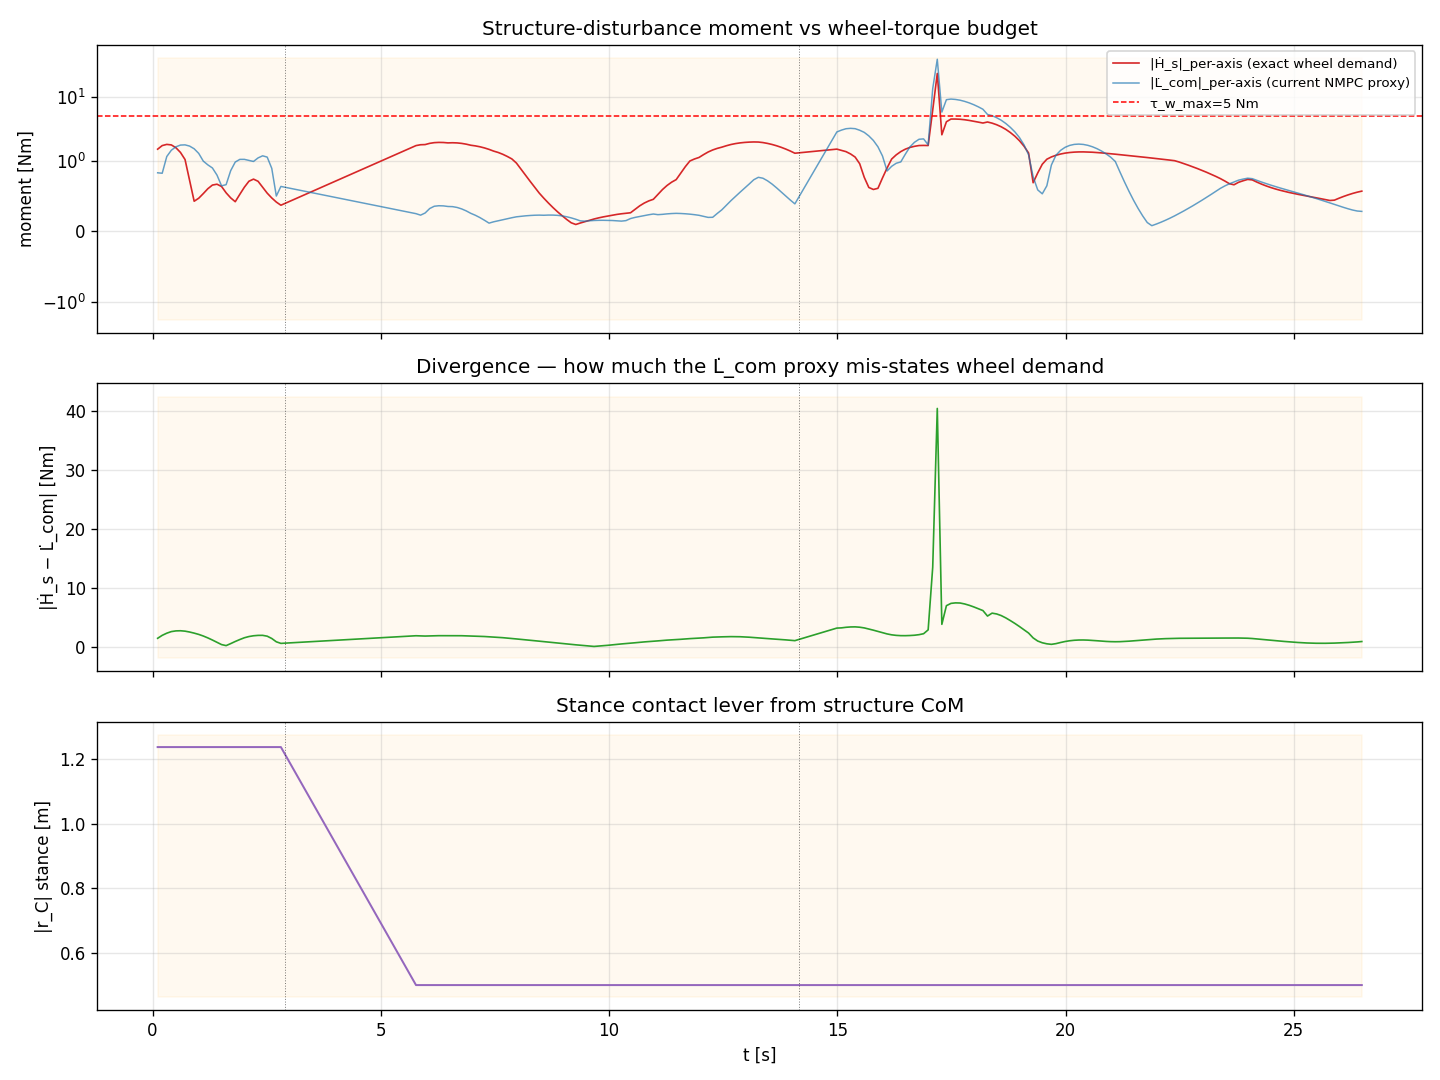
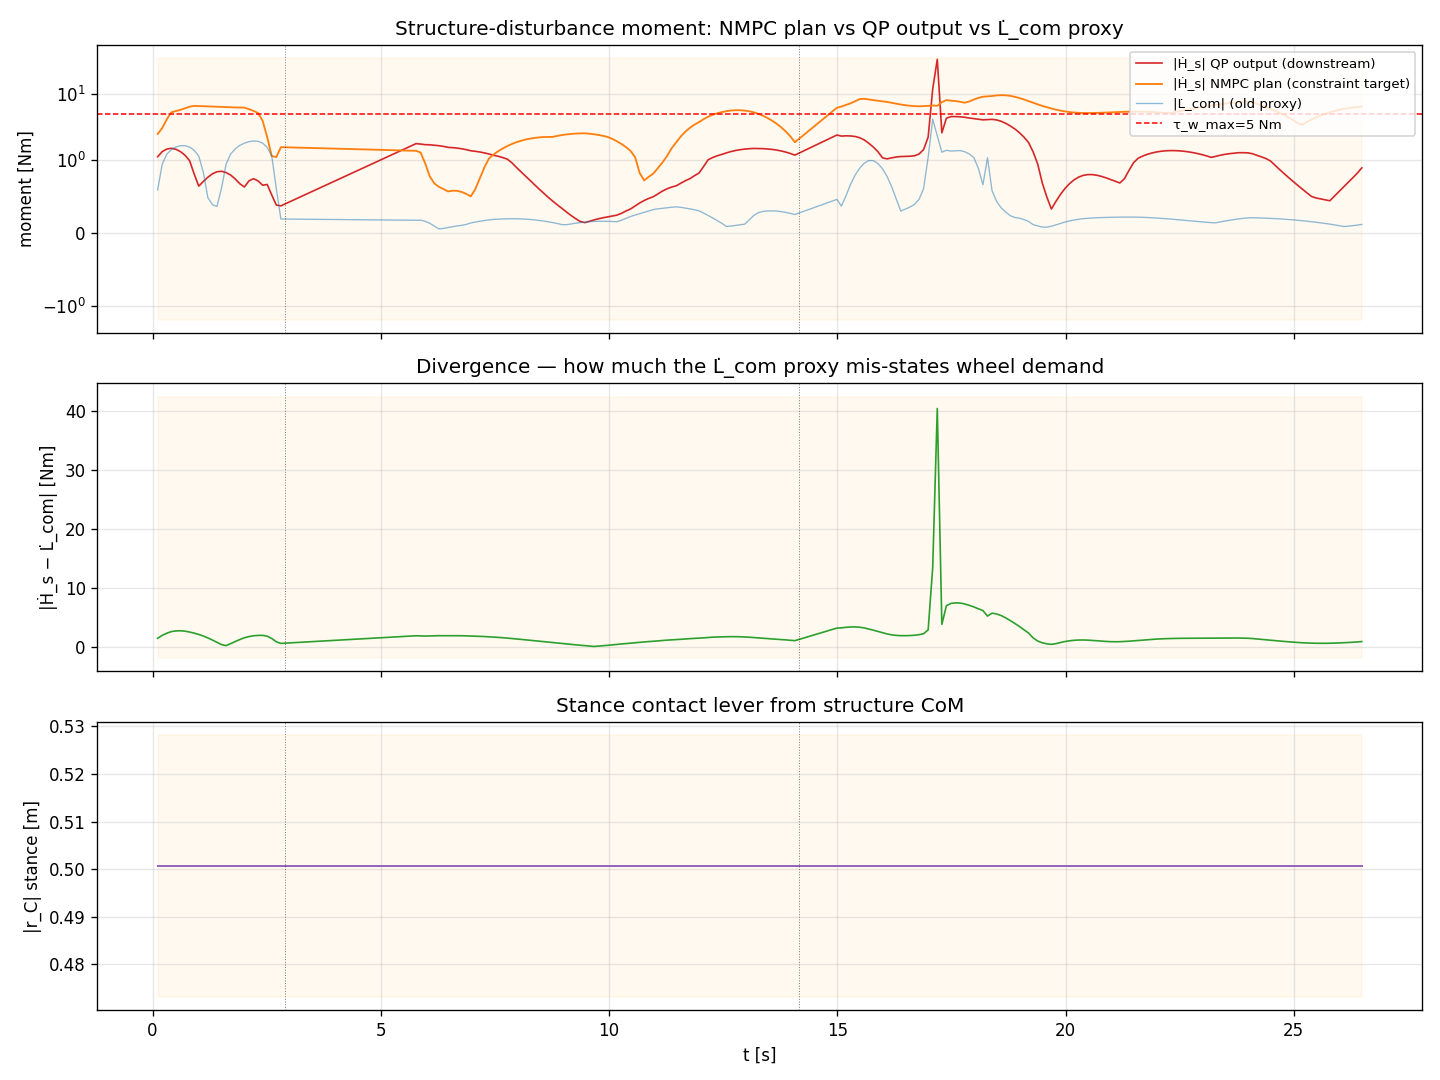
diag: fix STANCE-anchor index convention in diag_hdot_struct.py
The script's _anchor_pos formula treated `idx` as the 1-indexed MJCF
anchor name (x = (idx - 3.5) * 0.8), but the codebase uses 0-indexed
array indexing: `anchors_a[stance_a]` where MJCF site `anchor_{k+1}a`
sits at x = ((k+1) - 3.5) * 0.8 = (k - 2.5) * 0.8.

The bug systematically inverted the dominant lever sign across multiple
steps and produced phantom |L̇_com,z| violations up to 2× the budget.
Per-NMPC-solve IPOPT inf_pr (this commit's predecessor 495df55) showed
the constraint was satisfied to ~1e-7 — i.e., the proxy IS respected
by the plan; the apparent violation was the anchor bug.

CORRECTED picture (1% canonical):
- L̇_com proxy (lever from robot CoM): peak 2.91 Nm — well within 5 Nm.
- Ḣ_s exact (lever from structure CoM, constraint OFF): peak 14.26 Nm
  at step 4 (stance lever 1.237 m) — 2.85× over budget.
- Per-step Ḣ_s plan peaks: 6.64/6.73/8.52/2.97/12.07 Nm.
- QP-output spike at step 2: 35.69 Nm (downstream mapping, unchanged).

The corrected lever pattern is INVERTED from earlier claims: late steps
(3 and 4) have the long lever (1.237 m), not step 0. Step 4 is where
the exact constraint is most binding (geometric throttling on the
long-lever stance). The 14% Ḣ_s plan peak is 9.63 Nm at step 2.

Implication: the strict |Ḣ_s|≤5 constraint genuinely cannot be
satisfied at current gait timings — the runner-level revert in commit
29ce2e7 stands as the correct decision; only its written justification
[…]

diff --git a/scripts/diag_hdot_struct.py b/scripts/diag_hdot_struct.py
@@ -44,20 +44,28 @@ TAU_W_MAX = 5.0  # Nm — per-axis wheel torque limit
 
 
 def _anchor_pos(idx: int, arm: str) -> np.ndarray:
-    """Canonical structure-frame anchor position (dx=0.8, dy=0.3, z=0.025)."""
-    x = (idx - 3.5) * 0.8
+    """Canonical structure-frame anchor position (dx=0.8, dy=0.3, z=0.025).
+
+    idx is the **0-indexed array index** matching `anchors_a[idx]` in
+    `ContactScheduler` — NOT the MJCF anchor name (which is 1-indexed).
+    MJCF site `anchor_{idx+1}{arm}` sits at x = ((idx+1) - 3.5) * 0.8
+    = (idx - 2.5) * 0.8.
+    """
+    x = (idx - 2.5) * 0.8
     y = 0.3 if arm == 'a' else -0.3
     return np.array([x, y, 0.025])
 
 
-# Stance anchor per SS step (the arm NOT swinging; even k -> swing b, odd -> swing a).
-# Starting pair (2a, 2b). After step k SS: anchor advances by 1 on the swing arm.
+# Stance anchor per SS step. stance index = anchors_a/b[k] index that has
+# NOT swung yet at the start of this step. Starting (start_a=2, start_b=2)
+# per diag_cooperative_arms.py:291. Even step => swing b (stance A);
+# odd step => swing a (stance B). Indices are 0-based array indices.
 STANCE_ANCHOR = {
-    0: ('a', 2),   # swing b 2→3; stance a at 2a
-    1: ('b', 3),   # swing a 2→3; stance b at 3b
-    2: ('a', 3),   # swing b 3→4; stance a at 3a
-    3: ('b', 4),   # swing a 3→4; stance b at 4b
-    4: ('a', 4),   # swing b 4→5; stance a at 4a
+    0: ('a', 2),   # step 0 SS: stance A at anchors_a[2] (x=-0.4)
+    1: ('b', 3),   # step 1 SS: stance B at anchors_b[3] (x=+0.4)  (b advanced 2→3 in step 0)
+    2: ('a', 3),   # step 2 SS: stance A at anchors_a[3] (x=+0.4)  (a advanced 2→3 in step 1)
+    3: ('b', 4),   # step 3 SS: stance B at anchors_b[4] (x=+1.2)
+    4: ('a', 4),   # step 4 SS: stance A at anchors_a[4] (x=+1.2)
 }
 
 
